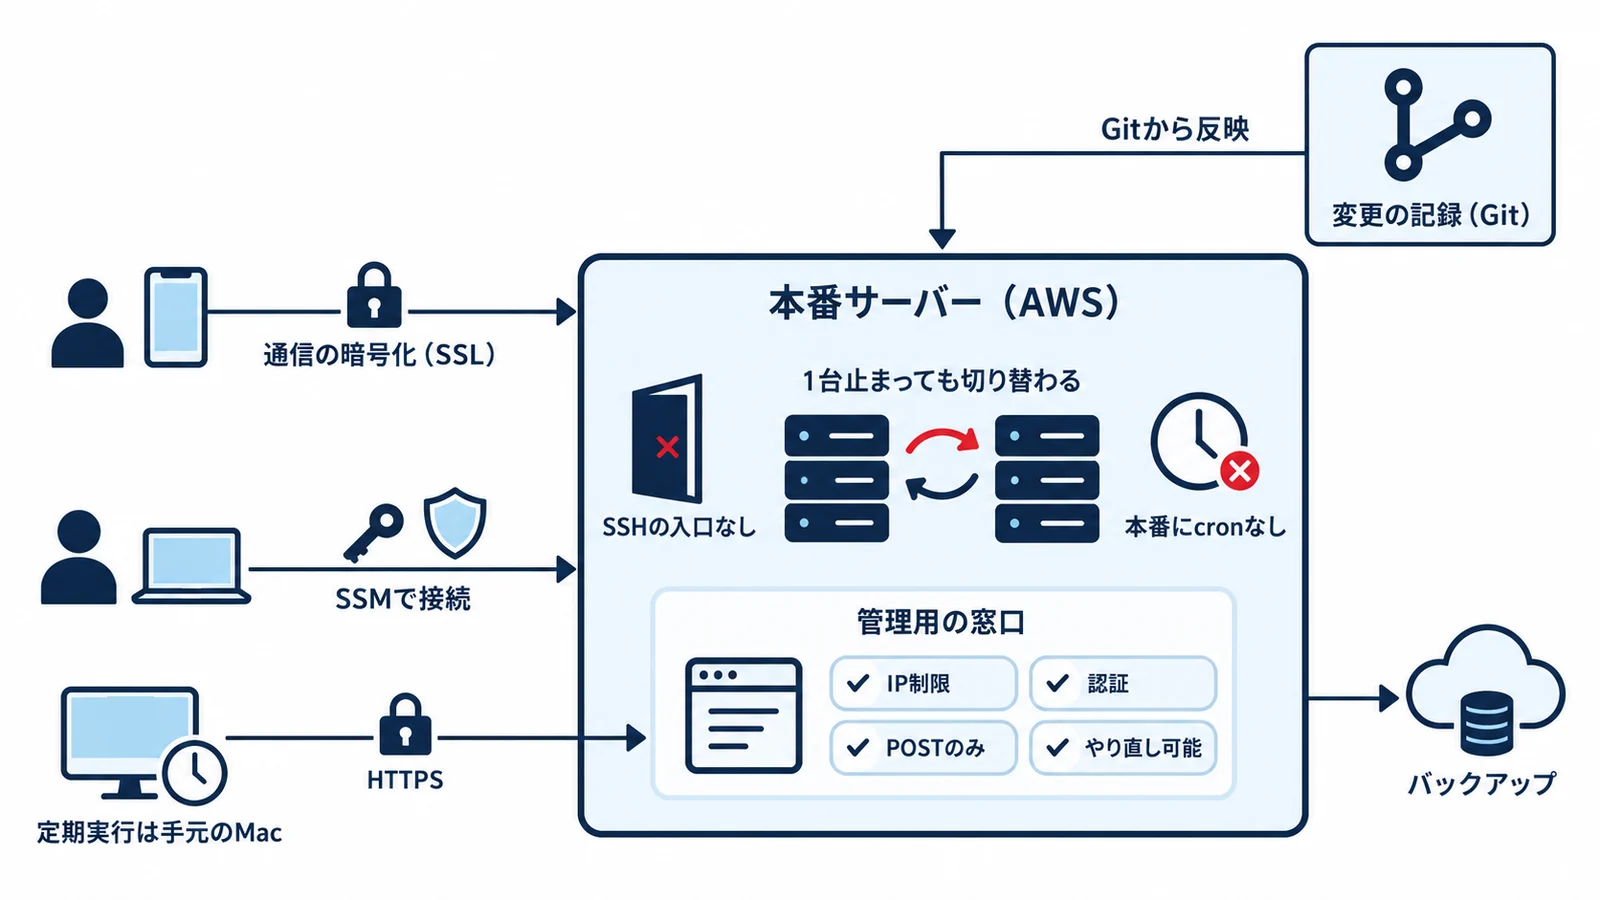
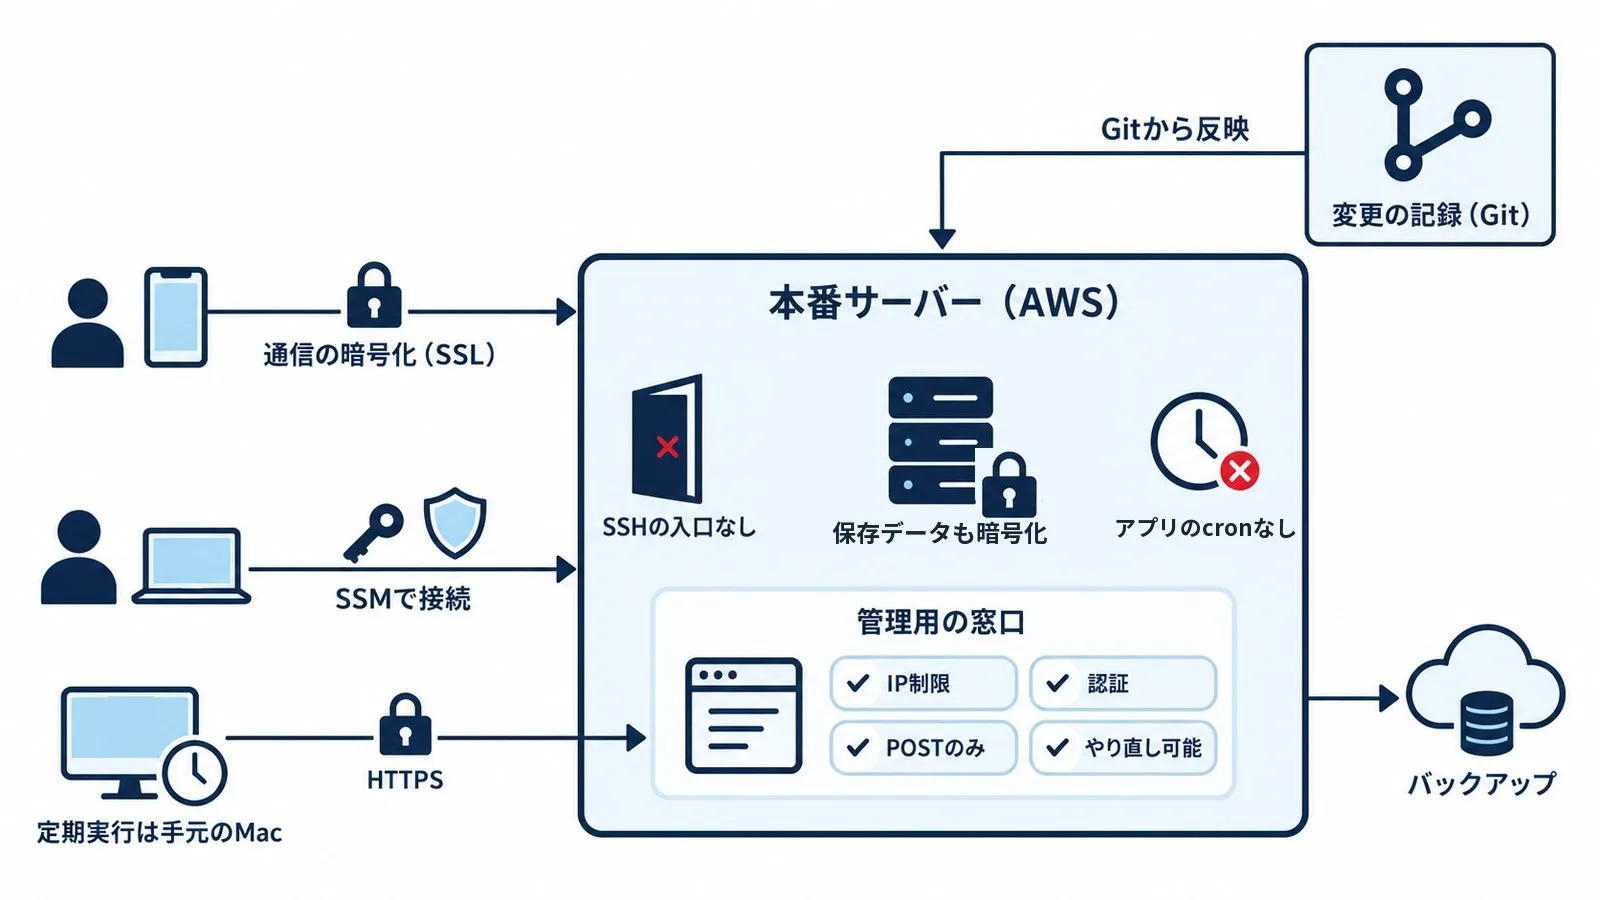
/security：冗長化とデータの暗号化を提案として強めに出すブロックを追加。自社構成は事実に合わせ「1台止まっても切り替わる」を外して「保存データも暗号化」に、cron の記述は「アプリの定期処理は本番に置かない」に。3段階の説明に保存データの暗号化・冗長化を明記

Changed region(s): [[0.4688, 0.4044, 0.8125, 0.6222]]

diff --git a/src/assets/styles/_corp-security.scss b/src/assets/styles/_corp-security.scss
@@ -1182,3 +1182,69 @@ $gray: #f4f6f9;
   word-break: auto-phrase;
   text-wrap: balance;
 }
+
+/* 提案：冗長化とデータの暗号化（2026-10-08）。cron の提案より強く見せる */
+#corp-page.cp-security-page .sp-cron--strong {
+  border-top: 4px solid #ff4d5e;
+
+  .sp-cron__list {
+    display: grid;
+    gap: 12px;
+    list-style: none;
+  }
+
+  .sp-cron__list li {
+    padding: 14px 16px;
+    border: 1px solid rgba(255, 255, 255, 0.2);
+    background-color: rgba(255, 255, 255, 0.06);
+    color: rgba(255, 255, 255, 0.85);
+    line-height: 1.8;
+  }
+
+  .sp-cron__list b {
+    display: block;
+    color: white;
+    font-weight: bold;
+  }
+}
+
+@media screen and (min-width: 769px) {
+  #corp-page.cp-security-page .sp-cron--strong {
+    .sp-cron__ttl {
+      font-size: 2.6rem;
+    }
+
+    .sp-cron__list {
+      grid-template-columns: repeat(2, minmax(0, 1fr));
+      margin-top: 22px;
+    }
+
+    .sp-cron__list li {
+      font-size: 1.4rem;
+    }
+
+    .sp-cron__list b {
+      font-size: 1.6rem;
+    }
+  }
+}
+
+@media screen and (max-width: 768px) {
+  #corp-page.cp-security-page .sp-cron--strong {
+    .sp-cron__ttl {
+      font-size: 2rem;
+    }
+
+    .sp-cron__list {
+      margin-top: 16px;
+    }
+
+    .sp-cron__list li {
+      font-size: 1.3rem;
+    }
+
+    .sp-cron__list b {
+      font-size: 1.5rem;
+    }
+  }
+}
